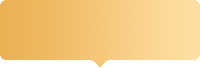
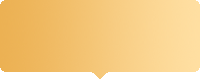
u

diff --git a/css/ghc_main.css b/css/ghc_main.css
@@ -130,7 +130,7 @@ img{max-width:100%}
 .mr30{margin-right:.4rem}
 .mr70{margin-right:0.933333rem}
 .ml24{ margin-left:.32rem}
-.bold,.card_wrap h3,.release_info h4,.index_menu h2 em{font-weight:700}
+.bold,.card_wrap h3,.release_info h4,.index_menu h2 em,.filter_nav a h4,.show_data h3{font-weight:700}
 .hide{display:none}
 
 .bor{border:1px solid #eee}
@@ -203,7 +203,7 @@ img{display:block;max-width:100%}
 
 
 .h_header,.f_footer,.notice_wrap{position:fixed;left:0;width:100%;z-index:9999}
-.h_header{top:0;width:100%;height:1.2rem;line-height:1.2rem;background:#110a03;position:absolute;}
+.h_header{top:0;width:100%;height:1.2rem;line-height:1.2rem;background:#110a03}
 .f_footer{bottom:0;height:1.466667rem;background:#262522;-webkit-box-shadow:0 -.013333rem .08rem rgba(0,0,0,.14);-moz-box-shadow:0 -.013333rem .08rem rgba(0,0,0,.14);-ms-box-shadow:0 -.013333rem .08rem rgba(0,0,0,.14);box-shadow:0 -.013333rem .08rem rgba(0,0,0,.14);border-top:1px solid #ffdfa2;border-image:-webkit-linear-gradient(#ecb153,#ffdfa2) 1 1;border-image:-moz-linear-gradient(#ecb153,#ffdfa2) 1 1;
      border-image:linear-gradient(#ecb153,#ffdfa2) 1 1}
 .f_footer a{height:1.466667rem;padding-top:0.266667rem}
@@ -248,8 +248,8 @@ filter:progid:DXImageTransform.Microsoft.gradient( startColorstr='#ffdfa2', endC
 
 .mui-fullscreen{position:absolute;top:0;left:0;right:0;bottom:0}
 
-.news_head{padding:0.56rem 0;margin:0 0.266667rem;border-bottom:1px solid #282725}
-.news_head h2{line-height:0.746667rem;margin-bottom:0.266667rem}
+.news_head{padding:0.36rem 0 .56rem;margin:0 0.266667rem;border-bottom:1px solid #282725}
+.news_head h2{line-height:0.746667rem;margin-bottom:0.133333rem}
 .news_body{line-height:0.48rem}
 
 .mui-control-content {min-height:215px;}
@@ -270,7 +270,7 @@ filter:progid:DXImageTransform.Microsoft.gradient( startColorstr='#ffdfa2', endC
 .mui-segmented-control .mui-control-item{line-height:1.173333rem}
 .mui-slider-progress-bar{height:1.173333rem;position:absolute;top:0}
 .mui-segmented-control.mui-segmented-control-inverted .mui-control-item{z-index:9}
-.mui-segmented-control.mui-segmented-control-inverted~.mui-slider-progress-bar{background:url('../images/ghc_tab_bg.png') 50% 0.186667rem no-repeat;background-size:2.666667rem}
+.mui-segmented-control.mui-segmented-control-inverted~.mui-slider-progress-bar{background:url('../images/ghc_tab_bg.png') 50% 0.106667rem no-repeat;background-size:2.666667rem}
 
 .show_data{overflow:hidden;line-height:0.56rem;padding:0.533333rem 0}
 
@@ -313,10 +313,10 @@ filter:progid:DXImageTransform.Microsoft.gradient( startColorstr='#3d3024', endC
 .r_record{padding: 0.4rem 0.4rem 0.48rem;line-height: 0.613333rem}
 .r_record:before{font-size: 0.346667rem;margin-top:-0.173333rem}
 
-.release_info li{width:4.48rem;height:1.84rem;background: url(../images/ghc_bg1.png) 50% no-repeat;background-size:4.48rem;padding: 0.453333rem 0.533333rem;margin-bottom:0.24rem;overflow: hidden;}
+.release_info li{width:4.48rem;height:1.84rem;background: url(../images/ghc_bg1.png) 50% no-repeat;background-size:4.48rem;padding: 0.453333rem 0.533333rem;margin-bottom:0.24rem;overflow: hidden;line-height:0.373333rem}
 .release_info li:not(:nth-child(2n+0)){margin-right:0.24rem}
 .release_info li:before{content: '\e843';position: absolute;right:0.133333rem;bottom:0.266667rem;color: #f6c476;font-size:1.6rem;transform: rotate(-30deg);}
-/*.release_info li:nth-child(2n):before{content: '\e842'}*/
+.release_info h4{line-height:0.533333rem}
 
 table{width:100%}
 tr,td,th{padding:0.266667rem 0.133333rem;line-height: 0.48rem}
